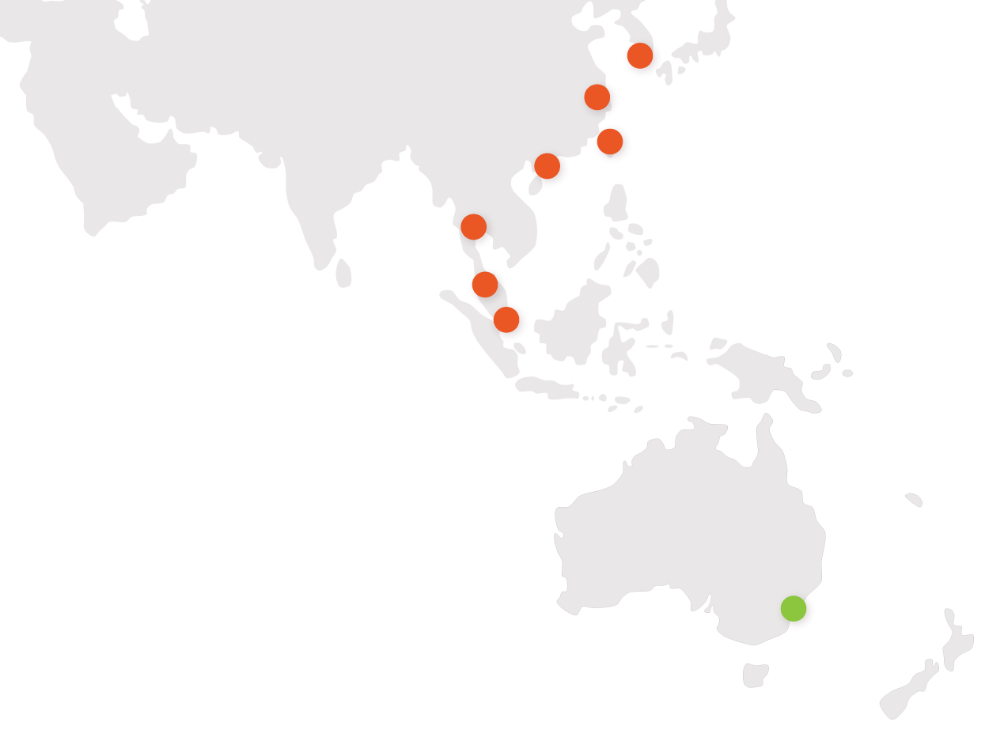
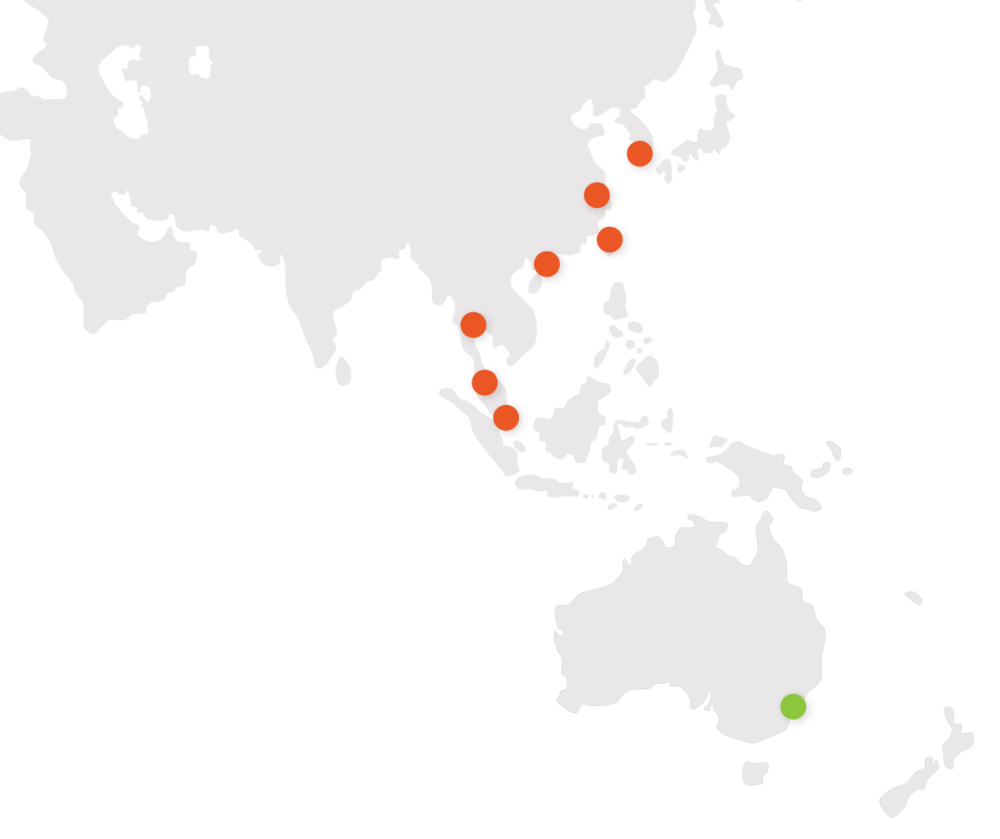
preview update

diff --git a/australia/share/css/common.css b/australia/share/css/common.css
@@ -12300,7 +12300,7 @@ div#message-president .box-image{
     top: 0;
 }
 
-@media only screen and (min-width: 1024px){
+@media only screen and (min-width: 769px){
 .box-hdg-wrapper.type-03 .box-hdg-container .box-content-left,
 .box-hdg-wrapper.type-05 .box-hdg-container .box-content-left {
     max-width: 45%;
@@ -12355,7 +12355,7 @@ footer .footer-area-sub p.footer-copy {
   .box-hdg-wrapper.contact-us-03 {
       min-height: 650px;
       margin-bottom: 80px;
-      margin-top: -90px !important;
+      margin-top: -100px !important;
     }
 
 .box-singaporearea .box-offices-globalarea .box-inner .box-panel .panel {
@@ -13175,14 +13175,14 @@ ul.dot-list li{ padding-bottom: 10px;}
 .map-area { position:relative;float:left; width:100%; height:auto; }
 .map-area .map-image {position:unset !important;}
 .map-area .map-link { position: absolute; width: 2.9%; height: 4.55%; z-index: 2;}
-.map-area .map-link-ko {    left: 62.5%;    top: 5.5%;  }
-.map-area .map-link-ch {    left: 58.3%;    top: 10.84%;}
-.map-area .map-link-tw {    left: 59.6%;    top: 17.0%; }
-.map-area .map-link-kk {    left: 53.4%;    top: 20.2%; }
-.map-area .map-link-th {    left: 46.0%;    top: 28.36%;}
-.map-area .map-link-my {    left: 47.0%;    top: 36.1%; }
-.map-area .map-link-sg {    left: 49.2%;    top: 41.1%; }
-.map-area .map-link-au {    left: 77.9%;    top: 79.9%; }
+.map-area .map-link-ko {    left: 62.5%;    top: 15.5%;  }
+.map-area .map-link-ch {    left: 58.3%;    top: 20.84%;}
+.map-area .map-link-tw {    left: 59.6%;    top: 26.0%; }
+.map-area .map-link-kk {    left: 53.4%;    top: 29.2%; }
+.map-area .map-link-th {    left: 46.0%;    top: 36.36%;}
+.map-area .map-link-my {    left: 47.0%;    top: 43.4%; }
+.map-area .map-link-sg {    left: 49.2%;    top: 47.5%; }
+.map-area .map-link-au {    left: 77.9%;    top: 81.9%; }
 
 .box-hdg-wrapper.contact-us-03 { pointer-events: none;}
 .box-hdg-wrapper.contact-us-03 a { pointer-events:all;}
